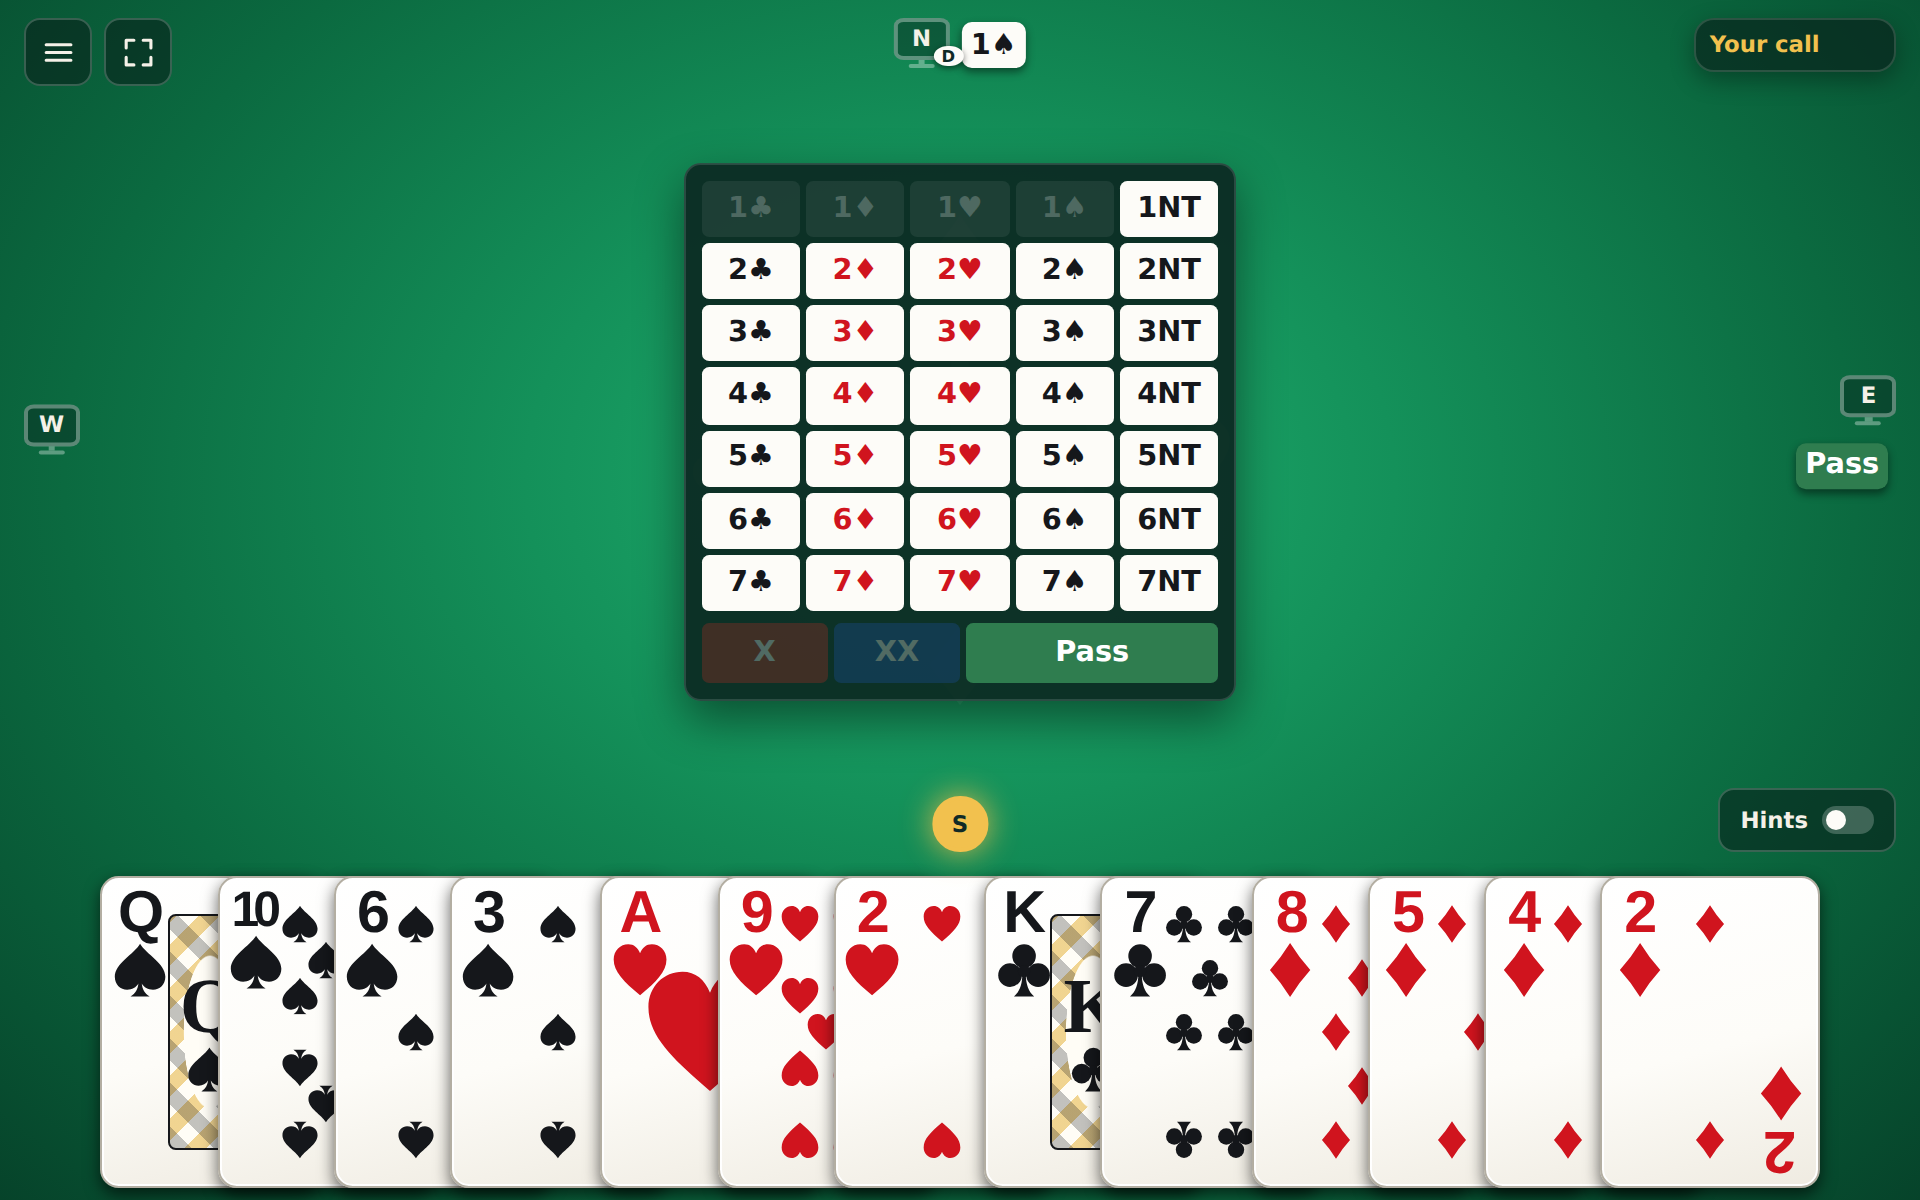
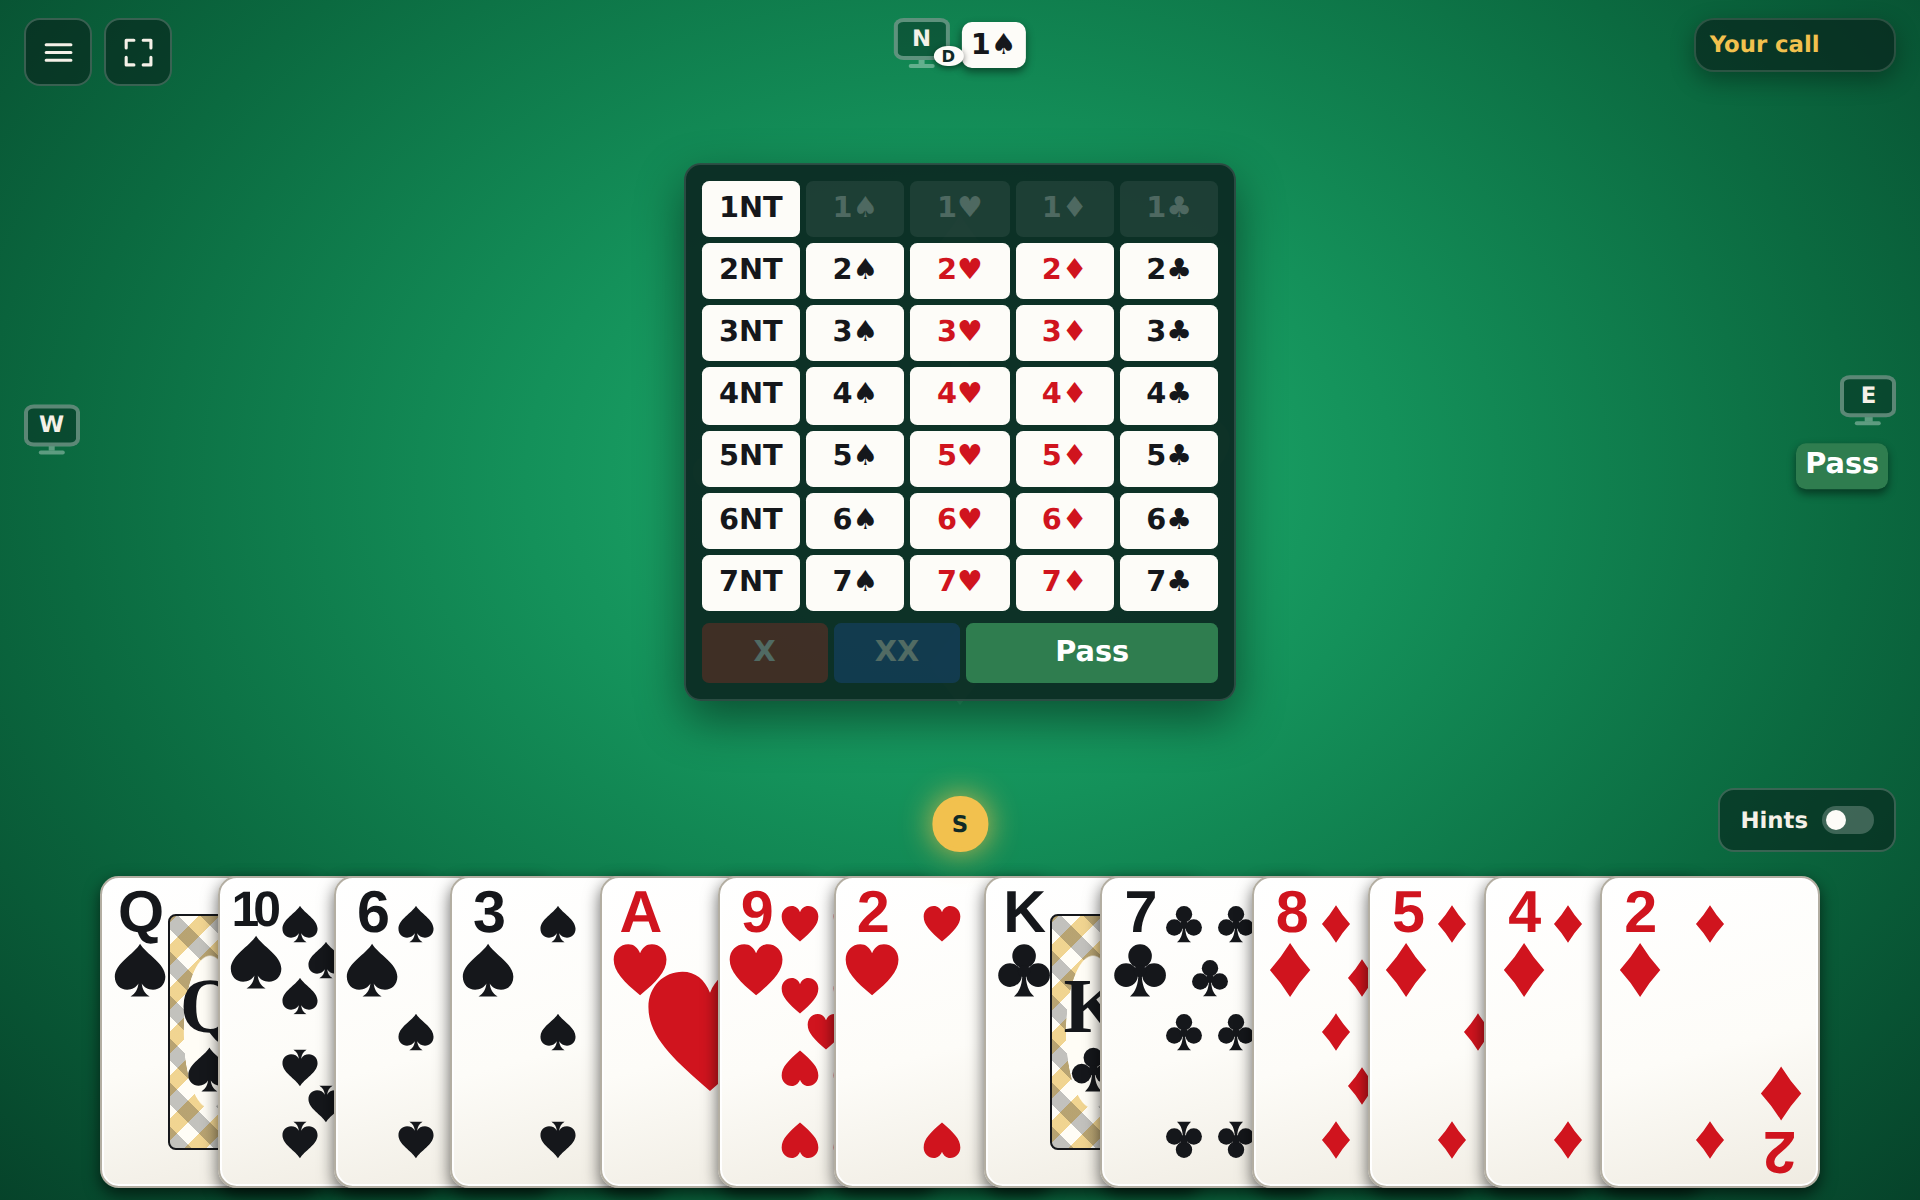
Order each bidding-box row from notrump down to clubs

diff --git a/apps/client/src/table/TableView.tsx b/apps/client/src/table/TableView.tsx
@@ -25,6 +25,8 @@ import {
 
 const tablePositions = ["bottom", "left", "top", "right"] as const;
 const liveTurnPhase = (phase: PublicGame["phase"]) => phase === "auction" || phase === "play";
+// The bidding box reads from the highest strain down in each row (NT, ♠, ♥, ♦, ♣), as on Trickster Cards.
+const bidBoxStrains = [...biddingStrains].reverse();
 
 export type TableViewProps = {
   game: PublicGame;                      // hidden hands are empty arrays
@@ -210,7 +212,7 @@ export function TableView({
           {auctionList}
           {canAct && onBid && phase === "auction" ? <div className="bid-picker" aria-label="Choose a bid">
             <div className="bid-grid" role="group" aria-label="Contract bids by level and strain">
-              {[1, 2, 3, 4, 5, 6, 7].map((level) => biddingStrains.map((strain) => {
+              {[1, 2, 3, 4, 5, 6, 7].map((level) => bidBoxStrains.map((strain) => {
                 const bid = `${level}${strain}` as Bid;
                 return <button key={bid} type="button" className={`bid-cell ${isRedSuit(strain) ? "bid-red" : ""} ${hintedBid === bid ? "hinted-bid" : ""}`} aria-label={`${level} ${strain}`} title={hintedBid === bid ? "Suggested bid" : undefined} disabled={bidsDisabled || !isCallAvailable(game, bid)} onClick={() => onBid(bid)}>{level}<span>{strain === "notrump" ? "NT" : suitSymbols[strain]}</span></button>;
               }))}

diff --git a/apps/client/src/mocks/Previews.test.tsx b/apps/client/src/mocks/Previews.test.tsx
@@ -135,7 +135,9 @@ const expectations: Record<string, () => Promise<void> | void> = {
   },
   "solo-auction": () => {
     expect(document.querySelector(".status-pill")!.textContent).toBe("Your call");
-    expect(screen.getByRole("group", { name: "Contract bids by level and strain" })).toBeTruthy();
+    const bidRows = within(screen.getByRole("group", { name: "Contract bids by level and strain" })).getAllByRole("button");
+    // Each row of the bidding box runs from notrump down to clubs.
+    expect(bidRows.slice(0, 5).map((bid) => bid.getAttribute("aria-label"))).toEqual(["1 notrump", "1 spades", "1 hearts", "1 diamonds", "1 clubs"]);
     expect(screen.getByRole("list", { name: "Auction calls" }).querySelectorAll("li")).toHaveLength(2);
   },
   "solo-declaring": () => {

diff --git a/CHANGES.md b/CHANGES.md
@@ -2,6 +2,7 @@
 
 ## Unreleased
 
+- **Bidding box reads from notrump down.** Each row of the bidding box now runs 1NT, 1♠, 1♥, 1♦, 1♣ (and so on up to 7), as on Trickster Cards, instead of clubs first. README screenshots refreshed.
 - **Table corners swapped, and the last trick lies by its winner.** The game menu (☰) and full-screen button now sit in the top-left corner and the status card (contract, tricks, score, whose turn) in the top-right, at solo and online tables; the menu opens downward from the left, and the Auto play banner starts under the menu. The **Last trick** badge no longer sits under the menu: it lies on the table beside the place of the player who won the trick, as a won trick is gathered in front of its winner (beside the top or bottom card, or just outside a side seat's card), and it is hidden once the deal is over and every hand is face-up. At online tables a hand spread along the top now fits between the two corners. README screenshots refreshed.
 - **Full screen at online tables and in older iPad Safari.** Online tables now have the full-screen button (four corners) beside the game menu, as solo tables already did, and the F key toggles it there too. Full screen also works in Safari versions that only offer the webkit-prefixed API (before iPadOS 16.4). iPhone Safari still has no full screen for web pages.
 - **Your playing hand stays at the bottom when your bot partner declares.** When your bot partner wins the contract and you play its cards, the table now turns once dummy is down: the declaring hand you play sits at the bottom of the screen and your own hand lies across the table as dummy, just as when you declare yourself. Until the opening lead your own hand stays at the bottom. This applies in solo play against bots and at online tables with a bot partner. New preview 20 (Solo: dummy playing for a bot declarer) shows it; later solo, replay, and sign-in previews move up one.
